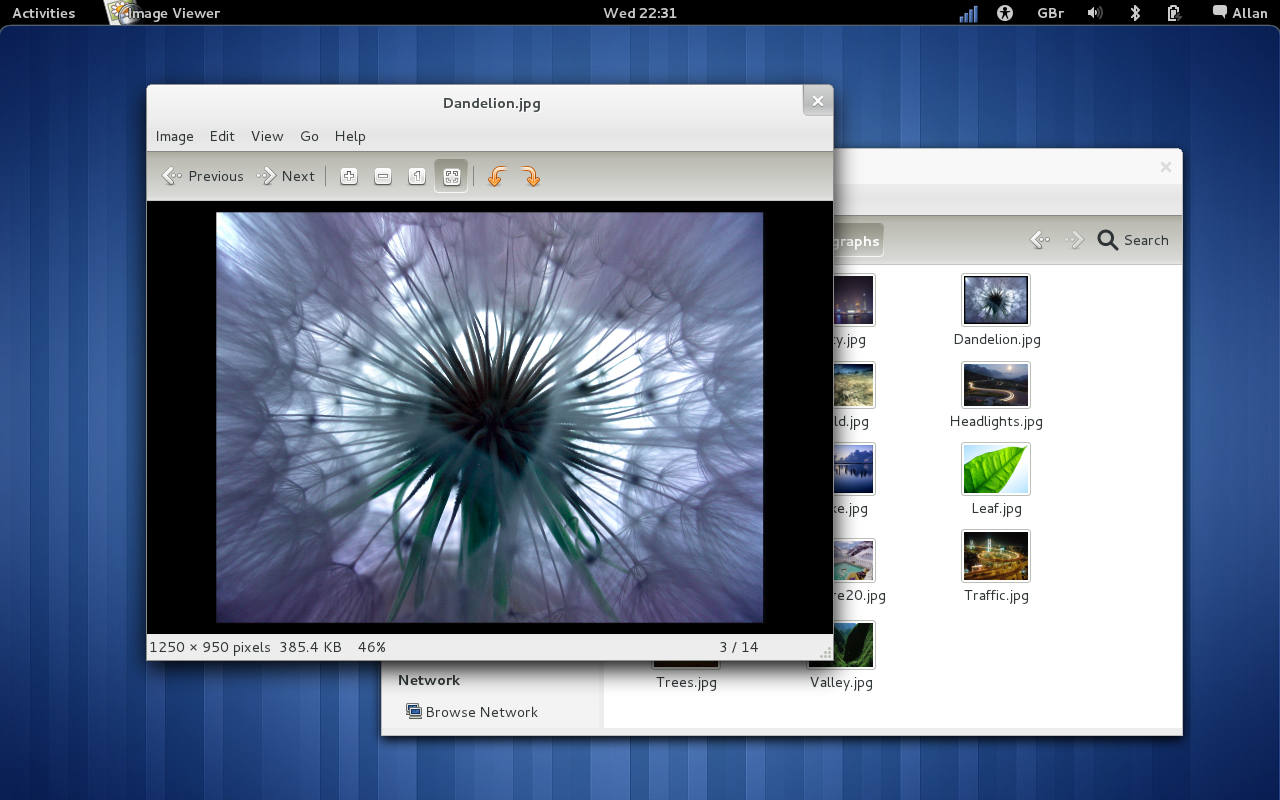
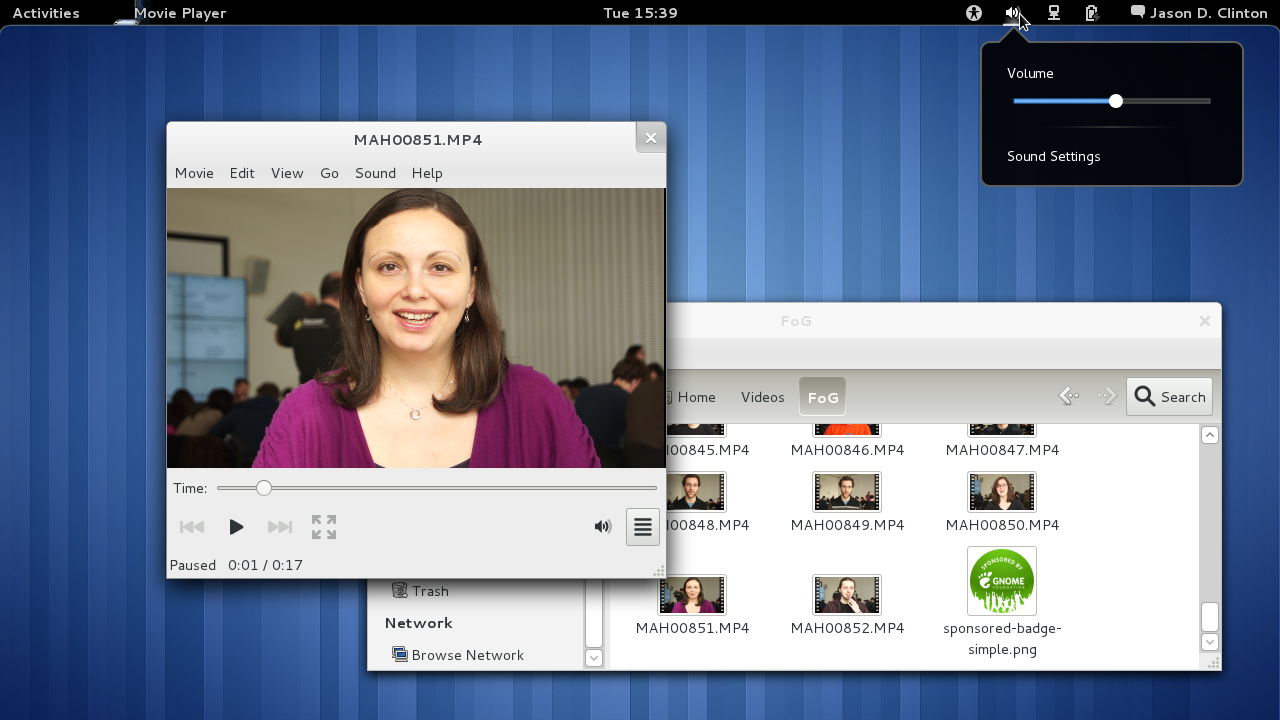
img: Update all screenshots to 3.0 shots; remove "BETA" banneri
Also, I stripped ALL chromaticity data from PNG's to stop browsers from trying
to color manage screenshots. This massively improved the rendering of the color
on the site.

Please save any hand-editted files in GIMP with the "Save gamma" PNG export
option to *avoid* including the chromaticity data which triggers ICM.

diff --git a/index.html b/index.html
@@ -32,7 +32,9 @@
 <div class="container_16">
   <div class="grid_16">
       <div id="splash">
+        <!-- Overlay decal can go here, like Alpha, Beta, NEW!
         <img class="alpha-banner" src="img/alpha-banner.png"/>
+        -->
         <a id="slick-show" href="#"><img class="play-button" src="img/play.png" /></a>
         <h1>Introducing the next generation GNOME desktop</h1>
       </div>
